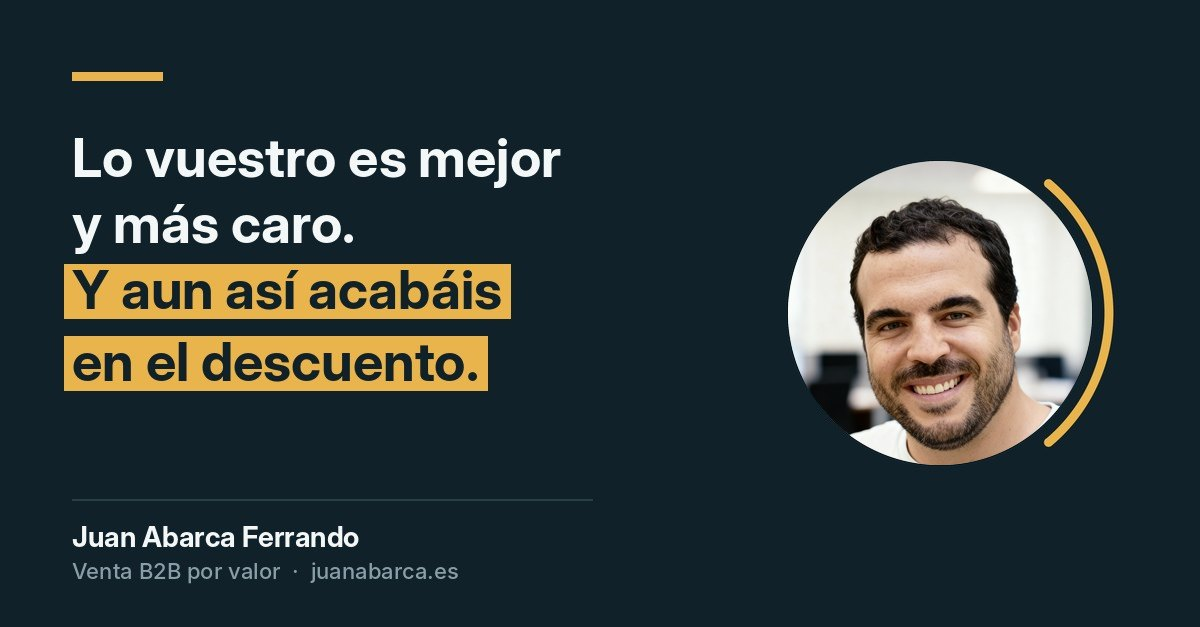
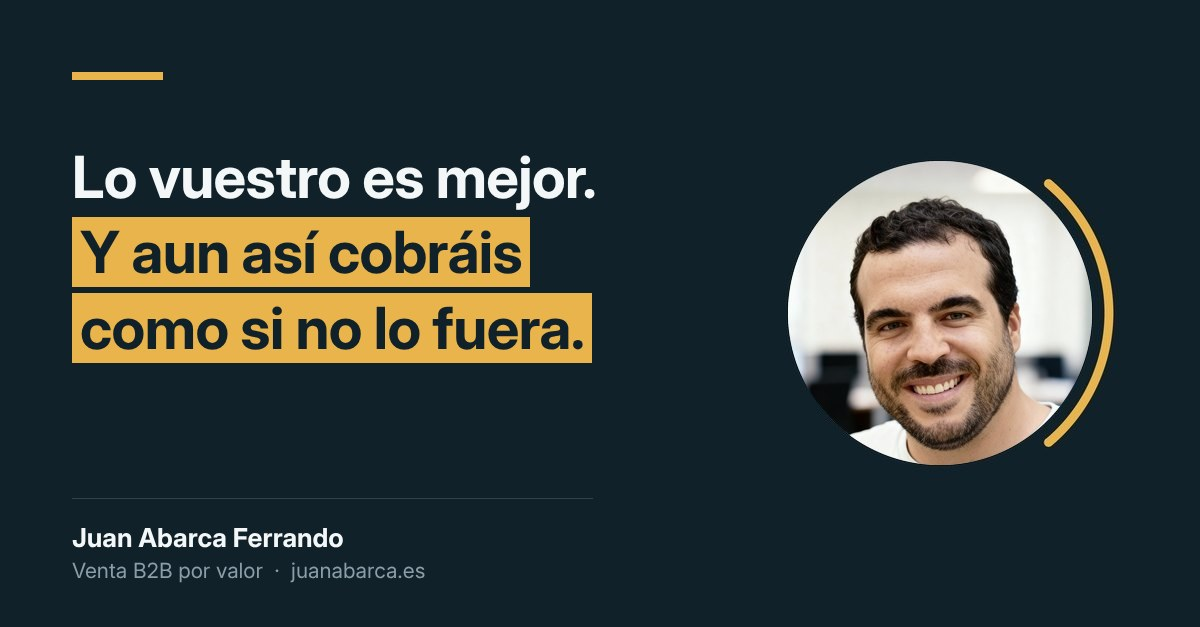
Propuesta más general, miniatura con el titular actual y gancho de la calculadora
Claude-Session: https://claude.ai/code/session_01Y5xgyWyLfhcFvfQZkMzumN

Changed region(s): [[0.0308, 0.2121, 0.4933, 0.6364], [0.0617, 0.7879, 0.4933, 0.9394], [0.0617, 0.1212, 0.1233, 0.1515]]

diff --git a/index.html b/index.html
@@ -219,7 +219,7 @@ s.setAttribute("data-website-id","1c7607e6-4799-4255-bdee-e5a77d4e1a08");documen
   <div class="wrap stack">
     <div class="bar" aria-hidden="true"></div>
     <h1>Lo vuestro es mejor. <mark>Y aun así cobráis como si no lo fuera.</mark></h1>
-    <p class="lead"><b style="color:var(--papel)">Ayudo a dueños de pymes B2B a que su equipo comercial defienda el precio como lo haría él, sin descuentos, sin perder operaciones y sin cobrar de menos.</b></p>
+    <p class="lead"><b style="color:var(--papel)">Ayudo a pymes B2B y a sus equipos comerciales a defender el precio con una propuesta de valor clara, sin regalar margen ni perder operaciones por precio.</b></p>
     <p class="nota">Consultoría comercial con tu equipo y sobre vuestras ventas reales. Proyecto cerrado y precio fijo.</p>
     <div class="ctas">
       <a class="btn primary" href="#hablamos">¿Cuánto perdéis al año? Lo vemos juntos</a>
@@ -419,7 +419,7 @@ s.setAttribute("data-website-id","1c7607e6-4799-4255-bdee-e5a77d4e1a08");documen
 <section class="band" id="calculadora">
   <div class="wrap stack-s">
     <span class="label">¿Prefieres hacer la cuenta tú solo?</span>
-    <h3 style="font-size:22px">Tres cifras y ves cuánto perdéis al año en descuentos.</h3>
+    <h3 style="font-size:22px">Tres cifras y ves cuánto margen se os va al año.</h3>
     <p class="prose" style="max-width:56ch">La cuenta sale al momento y es gratis. Si además quieres mi lectura de si eso es mucho o poco, me dices quién eres y te la doy ahí mismo.</p>
     <div style="margin-top:6px"><a class="btn dark" href="calculadora-margen.html">Hacer la cuenta</a></div>
   </div>
